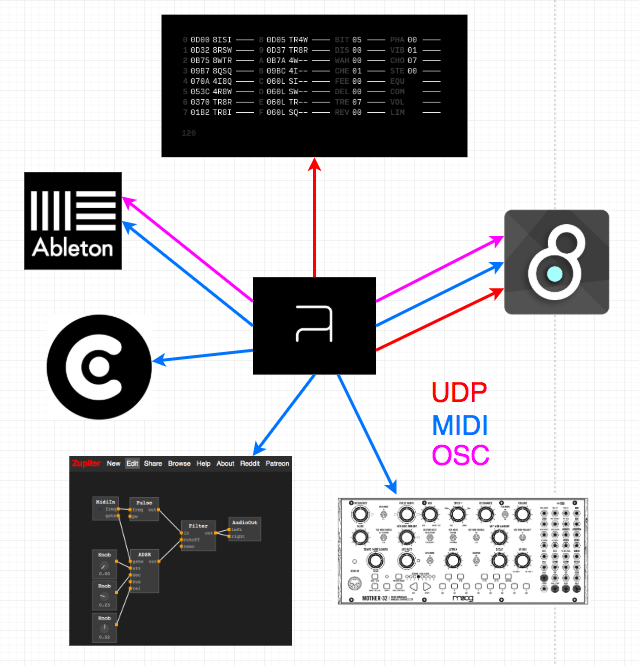
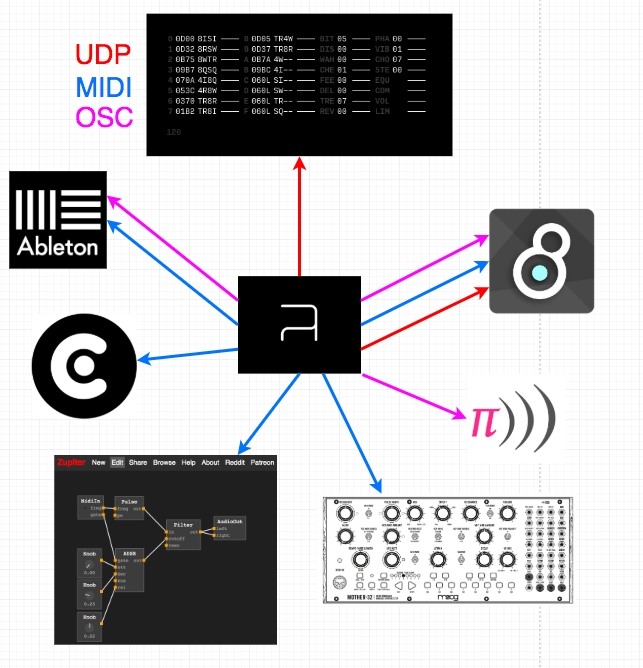
e

Changed region(s): [[0.0, 0.0, 0.9812, 0.991]]

diff --git a/README.md b/README.md
@@ -122,9 +122,9 @@ BLUE = Bang! = "*" = Activates the message = micro compiling
 
 ### ways of communicating
 
-- UDP = Pilot, Max/MSP
-- MIDI = External Hardware, Ableton, VCV Rack, Zupitor, Max/MSP...
-- OSC = Max/MSP
+- UDP (;) = Pilot, Max/MSP
+- MIDI (:) = External Hardware, Ableton, VCV Rack, Zupitor, Max/MSP...
+- OSC (=) = Max/MSP
 
 ## Sources
 
